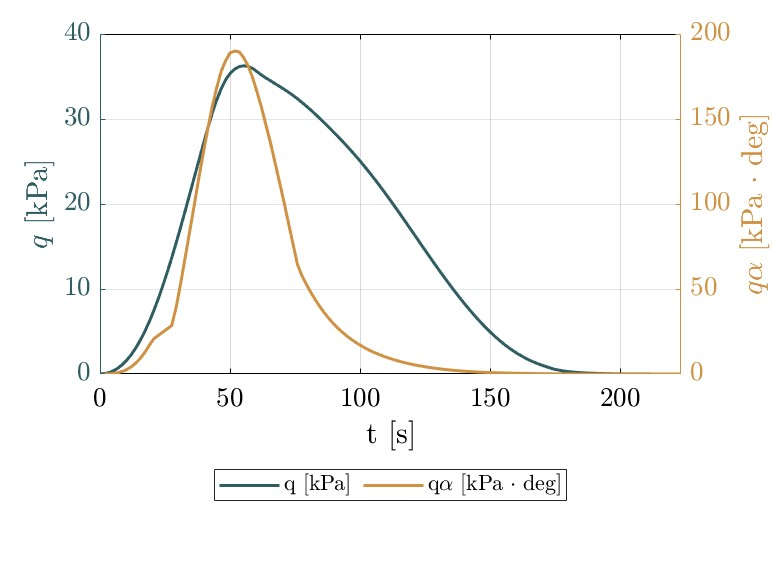
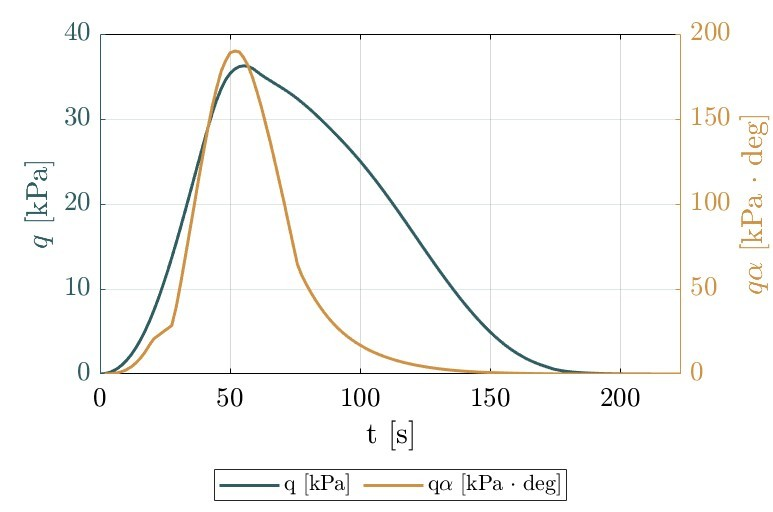
bastaaa

diff --git a/Codici/globalOptimisation/dataStructGlobal.m b/Codici/globalOptimisation/dataStructGlobal.m
@@ -165,56 +165,25 @@ mission.aerodynamics.bodyInfo.Cdn = 1.2;
 
 % ============================ Materials and structures ===============================
 
-% Ti-6Al-4V (Grade 5) - thrust rings, engine mounts, highly loaded nodes
-% mission.structure.rho      = 4430;
-% mission.structure.E        = 112e9;
-% mission.structure.yield    = 880e6;
-% mission.structure.ultimate = 950e6;
-
-% Al2219 - cryogenic tanks and primary structures for 1st/2nd stage
-% mission.structure.rho      = 2840;
-% mission.structure.E        = 72e9;
-% mission.structure.yield    = 390e6;
-% mission.structure.ultimate = 480e6;
+% Composito Chat
+mission.structure.rho      = 1580;  % Densità [kg/m³]
+mission.structure.E        = 120e9; % Modulo di Young [Pa]
+mission.structure.yield    = 1100e6; % Resistenza a snervamento [Pa]
+mission.structure.ultimate = 1900e6; % Resistenza ultima [Pa]
 
 % {
 % ----------------------------------------------------------------------
 % Al-Li 2195 - lightweight cryogenic tanks for high-performance stages 
 % ----------------------------------------------------------------------
-mission.structure.rho      = 2710; %https://www.matweb.com/search/datasheet_print.aspx?matguid=4363dafc7f5545688506d8b4af1e9468&utm_source
-mission.structure.E        = 79e9; %https://it.scribd.com/document/922715788/Al-Li-2195-Mechanical-Properties-Research?utm_source
-mission.structure.yield    = 500e6; %https://it.scribd.com/document/922715788/Al-Li-2195-Mechanical-Properties-Research?utm_source
-mission.structure.ultimate = 590e6; %https://it.scribd.com/document/922715788/Al-Li-2195-Mechanical-Properties-Research?utm_source
+% mission.structure.rho      = 2710; %https://www.matweb.com/search/datasheet_print.aspx?matguid=4363dafc7f5545688506d8b4af1e9468&utm_source
+% mission.structure.E        = 75e9; %https://it.scribd.com/document/922715788/Al-Li-2195-Mechanical-Properties-Research?utm_source
+% mission.structure.yield    = 560e6; %https://it.scribd.com/document/922715788/Al-Li-2195-Mechanical-Properties-Research?utm_source
+% mission.structure.ultimate = 590e6; %https://it.scribd.com/document/922715788/Al-Li-2195-Mechanical-Properties-Research?utm_source
 % }
 
-%{
-%----------------------------------------------------------------------
-% Al 2024-T3 - structural panels, frames, non-cryogenic structures
-%----------------------------------------------------------------------
-mission.structure.rho      = 2780;
-mission.structure.E        = 73e9;
-mission.structure.yield    = 345e6;
-mission.structure.ultimate = 483e6;
-%}
-
-% {
-% ----------------------------------------------------------------------
-% Al 7075-T6 - highly loaded fittings, secondary structures
-% ----------------------------------------------------------------------
-% mission.structure.rho      = 2810;
-% mission.structure.E        = 72e9;
-% mission.structure.yield    = 503e6;
-% mission.structure.ultimate = 572e6;
-% }
-
-
-% mission.structure.rho = [2840, 2710, 2780, 2810];
-% mission.structure.E   = [72e9, 75e9, 73e9, 72e9];
-% mission.structure.ultimate = [480e6, 560e6, 483e6, 572e6];
-% mission.structure.yield = [390e6, 500e6, 345e6, 503e6];
 mission.structure.minThickness = 1e-3 ;
 
-mission.structure.tankPressure       = 3.4e5;
+mission.structure.tankPressure       = 3.4;
 mission.structure.safetyFactor       = 1.4;
 
 

diff --git a/Codici/structures/thicknessFunction.m b/Codici/structures/thicknessFunction.m
@@ -87,20 +87,21 @@ for i = 1 : partsNumber
         for j = 1 : materialNumber
         % Minimum Allowable Thicknesses
         tAxial = abs((- N(i) / (2 * pi * r(i)) - M(i) / (pi * r(i)^2)) * SF + pressurization(i) * r(i) / 2 + rhoProps(i) * nx * g0 * r(i) * h(i) / 2) / ultimateStress(j);
-        tShear = T(i) / (2 * pi * r(i) * shearAllowable(j)) * SF;
+        tShear = abs(T(i)) / (2 * pi * r(i) * shearAllowable(j)) * SF;
 
         t(i, j) = max(tAxial, tShear);
 
         % Consider buckling
         bucklingEq = @(t_var) ( ...
-                    + abs(N(i) / (pi*(r(i)^2-(r(i)-t_var)^2))) * SF ...
-                    + abs(M(i) / (pi/4*(r(i)^4-(r(i)-t_var)^4)) * r(i)) * SF ...
-                    - abs((pressurization(i) * r(i)) / (2 * t_var)) )...
+                    + abs(N(i) / (2 * pi * r(i) * t_var)) * SF ...
+                    + abs(M(i) / (pi * r(i)^2 * t_var) ) * SF ...
+                     )...
                     - ( ((9 * (t_var/r(i))^0.6 + 0.16 * (r(i)/h(i))^1.3 * (t_var/r(i))^0.3) ...
                     + min(0.191 * (pressurization(i)/E(j)) * (r(i)/t_var)^2, 0.229) ) * E(j) * t_var / r(i));
                     % - abs((rhoProps(i)) * nx * g0 * h(i) * r(i)) / (2 * t_var)) ...
-        options = optimoptions('fsolve', 'Display', 'off', 'TolFun', 1e-6);
-        tBuckling = fsolve(bucklingEq, t(i,j), options);
+                    % - abs((pressurization(i) * r(i)) / (2 * t_var))
+        options = optimoptions('fsolve', 'Display', 'off', 'TolFun', 1e-39);
+        tBuckling = fsolve(bucklingEq, 0.001,options);
         t(i, j) = max(t(i, j), tBuckling);
         end
         
@@ -150,7 +151,8 @@ for i = 1 : partsNumber
     
         t(i, j) = max(tAxial, tShear);
     
-        bucklingEq = @(t_var) ((abs(N(i)) / (pi*(r(i)^2-(r(i)-t_var)^2)) + abs(M(i)) / (pi/4*(r(i)^4-(r(i)-t_var)^4)) * r(i))) - 0.6 * (1 - 0.901 * (1 - exp(-1 / 16 * sqrt(r(i)/t_var)))) * E(j) * t_var / r(i);
+        bucklingEq = @(t_var) ((abs(N(i)) / (pi*(r(i)^2-(r(i)-t_var)^2)) + abs(M(i)) / (pi/4*(r(i)^4-(r(i)-t_var)^4)) * r(i))) - E(j) * ( 9 * (t_var / r(i))^1.6 + 0.16 * (t_var / h(i))^1.3 ) ;
+        %- 0.6 * (1 - 0.901 * (1 - exp(-1 / 16 * sqrt(r(i)/t_var)))) * E(j) * t_var / r(i);
             options = optimoptions('fsolve', 'Display', 'off', 'TolFun', 1e-6);
             tBuckling = fsolve(bucklingEq, t(i, j), options);
             

diff --git a/Codici/structures/loadsMECO/thicknessFunctionMECO.m b/Codici/structures/loadsMECO/thicknessFunctionMECO.m
@@ -94,22 +94,18 @@ for i = 1 : partsNumber
         % Consider buckling
         bucklingEq = @(t_var) ( ...
                     + abs(N(i) / (pi*(r(i)^2-(r(i)-t_var)^2))) * SF ...
-                    + abs(M(i) / (pi/4*(r(i)^4-(r(i)-t_var)^4)) * r(i)) * SF ...
-                    - abs((pressurization(i) * r(i)) / (2 * t_var)) )...
+                    + abs(M(i) / (pi/4*(r(i)^4-(r(i)-t_var)^4)) * r(i)) * SF ) ...
                     - ( ((9 * (t_var/r(i))^0.6 + 0.16 * (r(i)/h(i))^1.3 * (t_var/r(i))^0.3) ...
-                    + min(0.191 * (pressurization(i)/E(j)) * (r(i)/t_var)^2, 0.229) ) * E(j) * t_var / r(i));
+                    + min(0.191 * (pressurization(i)/E(j)) * (r(i)/t_var)^2, 0.229) ) * E(j) * t_var / r(i) );
                     % - abs((rhoProps(i)) * nx * g0 * h(i) * r(i)) / (2 * t_var)) ...
+                    % - abs((pressurization(i) * r(i)) / (2 * t_var)) )...
         options = optimoptions('fsolve', 'Display', 'off', 'TolFun', 1e-6);
         tBuckling = fsolve(bucklingEq, t(i,j), options);
         t(i, j) = max(t(i, j), tBuckling);
         end
         
         [tVec(i), idx(i)] = min( t(i, :) .* (t(i,:)>=mission.structure.minThickness) + mission.structure.minThickness .* (t(i,:)<mission.structure.minThickness) );
-        % [tVec(i), idx(i)] = min( t(i, :) + inf * (t(i, :) < mission.structure.minThickness) );
-        % if isinf(tVec(i))
-        %     tVec(i) = mission.structure.minThickness;
-        %     idx(i)= 1;
-        % end
+        
         % Hydrostatic pressure
         pHydro = rhoProps(i) .* nx .* g0 .* h(i);
 
@@ -150,7 +146,7 @@ for i = 1 : partsNumber
     
         t(i, j) = max(tAxial, tShear);
     
-        bucklingEq = @(t_var) ((abs(N(i)) / (pi*(r(i)^2-(r(i)-t_var)^2)) + abs(M(i)) / (pi/4*(r(i)^4-(r(i)-t_var)^4)) * r(i))) - 0.6 * (1 - 0.901 * (1 - exp(-1 / 16 * sqrt(r(i)/t_var)))) * E(j) * t_var / r(i);
+        bucklingEq = @(t_var) ((abs(N(i)) / (pi*(r(i)^2-(r(i)-t_var)^2)) + abs(M(i)) / (pi/4*(r(i)^4-(r(i)-t_var)^4)) * r(i))) - E(j) * ( 9 * (t_var / r(i))^1.6 + 0.16 * (t_var / h(i))^1.3 ) ;
             options = optimoptions('fsolve', 'Display', 'off', 'TolFun', 1e-6);
             tBuckling = fsolve(bucklingEq, t(i, j), options);
             

diff --git a/Codici/structures/camionLoads/thicknessFunctionCamion.m b/Codici/structures/camionLoads/thicknessFunctionCamion.m
@@ -76,15 +76,15 @@ for i = 1 : partsNumber
 
     t(i, j) = max(tAxial, tShear);
 
-    bucklingEq = @(t_var) ((abs(N(i)) / (pi*(r(i)^2-(r(i)-t_var)^2)) + abs(M(i)) / (pi/4*(r(i)^4-(r(i)-t_var)^4)) * r(i))) - 0.6 * (1 - 0.901 * (1 - exp(-1 / 16 * sqrt(r(i)/t_var)))) * E(j) * t_var / r(i);
+    bucklingEq = @(t_var) ((abs(N(i)) / (pi*(r(i)^2-(r(i)-t_var)^2)) + abs(M(i)) / (pi/4*(r(i)^4-(r(i)-t_var)^4)) * r(i))) - E(j) * ( 9 * (t_var / r(i))^1.6 + 0.16 * (t_var / h(i))^1.3 );
         options = optimoptions('fsolve', 'Display', 'off', 'TolFun', 1e-6);
         tBuckling = fsolve(bucklingEq, t(i, j), options);
         
         t(i, j) = max(t(i, j), tBuckling);
     end
     
-
-    [tVec(i), idx(i)] = min( t(i, :) .* (t(i,:)>=mission.structure.minThickness) + mission.structure.minThickness .* (t(i,:)<mission.structure.minThickness) );
+    [tVec(i), idx(i)] = min(t(i,:));
+    % [tVec(i), idx(i)] = min( t(i, :) .* (t(i,:)>=mission.structure.minThickness) + mission.structure.minThickness .* (t(i,:)<mission.structure.minThickness) );
 
     % Area 
     A = pi * (r(i)^2 - (r(i)-tVec(i)).^2);

diff --git a/Codici/structures/groundLoads/thicknessFunctionGround.m b/Codici/structures/groundLoads/thicknessFunctionGround.m
@@ -78,15 +78,15 @@ for i = 1 : partsNumber
 
     t(i, j) = max(tAxial, tShear);
 
-    bucklingEq = @(t_var) ((abs(N(i)) / (pi*(r(i)^2-(r(i)-t_var)^2)) + abs(M(i)) / (pi/4*(r(i)^4-(r(i)-t_var)^4)) * r(i))) - 0.6 * (1 - 0.901 * (1 - exp(-1 / 16 * sqrt(r(i)/t_var)))) * E(j) * t_var / r(i);
+    bucklingEq = @(t_var) ((abs(N(i)) / (pi*(r(i)^2-(r(i)-t_var)^2)) + abs(M(i)) / (pi/4*(r(i)^4-(r(i)-t_var)^4)) * r(i))) - E(j) * ( 9 * (t_var / r(i))^1.6 + 0.16 * (t_var / h(i))^1.3 );
         options = optimoptions('fsolve', 'Display', 'off', 'TolFun', 1e-6);
         tBuckling = fsolve(bucklingEq, t(i, j), options);
         
         t(i, j) = max(t(i, j), tBuckling);
     end
     
-
-    [tVec(i), idx(i)] = min( t(i, :) .* (t(i,:)>=mission.structure.minThickness) + mission.structure.minThickness .* (t(i,:)<mission.structure.minThickness) );
+    [tVec(i), idx(i)] = min(t(i,:));
+    %[tVec(i), idx(i)] = min( t(i, :) .* (t(i,:)>=mission.structure.minThickness) + mission.structure.minThickness .* (t(i,:)<mission.structure.minThickness) );
 
     % Area 
     A = pi * (r(i)^2 - (r(i)-tVec(i)).^2);

diff --git a/Codici/structures/loadsMECO/provaRunnataMECO.m b/Codici/structures/loadsMECO/provaRunnataMECO.m
@@ -1,7 +1,7 @@
 %% ===================== Prova Runnata MECO =============================== 
 
 clear all;
-
+clc;
 close all
 
 % ==========================  DATI ========================================
